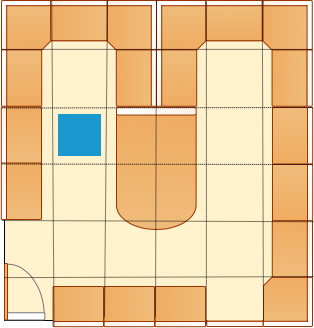
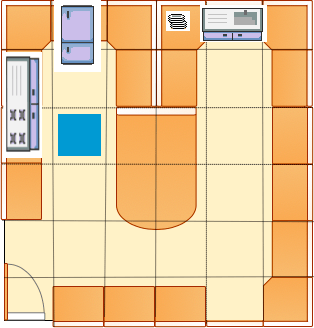
FINI
En vrai, c'est pas fini..
Mais il est 5h24, donc j'arrête là..

diff --git a/Scucina/src/scucina/JeuTuto1.java b/Scucina/src/scucina/JeuTuto1.java
@@ -21,7 +21,6 @@ public class JeuTuto1 implements JeuAbstract {
     int objectifx = 1;
     int objectify = 2;
     double rayon = 50;
-    String mode="t1";
     int map_x;
     int map_y;
     int direction;
@@ -31,7 +30,8 @@ public class JeuTuto1 implements JeuAbstract {
     int mauvaise_move;
     boolean lire=true;
     boolean ok;
-    int tps = 750;
+    int tps = 400;
+    String mode;
     
     boolean sequence = false;
     /*
@@ -57,7 +57,6 @@ public class JeuTuto1 implements JeuAbstract {
         this.personnage_y = 1;
         x = (this.personnage_x) * this.largeur_case + this.largeur_case;
         y = (this.personnage_y) * this.hauteur_case + this.hauteur_case/2;
-        
         this.mode = "t1";
         this.plateau = new Cases[6][6];
         this.portes = new Cases[1][2];
@@ -123,8 +122,7 @@ public class JeuTuto1 implements JeuAbstract {
     
     @Override
     public String evoluer(CClavier clavier, CSouris souris) {
-        this.mode="t1";
-        
+        this.mode = "t1";
         // decale le personnage en fonction des touches
         if (clavier.getTyped(KeyEvent.VK_LEFT)) {
             this.allerGauche(true, false);
@@ -200,12 +198,20 @@ public class JeuTuto1 implements JeuAbstract {
             }
             else sequence = false;
             if(ok()){
-                
-                        if ((sx > b1.pos_x) && (sy > b1.pos_y) && (sy < b1.pos_y+b1.hauteur) && (sx < b1.pos_x+b1.largeur) && (souris.getClicked())) {
-			// on change de mode de jeu
-			System.out.println("passer au second tutoriel");
-			this.mode = "t2";
-		}
+                try {
+                    Thread.sleep(tps*2);
+                } catch (InterruptedException ex) {
+                    Logger.getLogger(JeuTuto1.class.getName()).log(Level.SEVERE, null, ex);
+                }
+                this.mode = "t2";
+                if ((sx > b1.pos_x) && (sy > b1.pos_y) && (sy < b1.pos_y+b1.hauteur) && (sx < b1.pos_x+b1.largeur) && (souris.getClicked())) {
+                    // on change de mode de jeu
+                    System.out.println("passer au second tutoriel");
+                    this.mode = "t2";
+                }
+            }
+            else{
+                this.mode = "t1";
             }
         }
         // si on arrive � la fin
@@ -219,14 +225,14 @@ public class JeuTuto1 implements JeuAbstract {
         return ("fin");
         }
         */
-        
-        return this.mode;
+        System.out.println(this.mode);
+        return (this.mode);
     }
     
     public boolean ok(){
         if(this.personnage_x==this.objectifx && this.personnage_y==this.objectify){
             ok = true;
-            System.out.println("GG");
+            //System.out.println("GG");
         }
         else{
             ok=false;

diff --git a/Scucina/src/scucina/JeuTuto2.java b/Scucina/src/scucina/JeuTuto2.java
@@ -5,6 +5,7 @@
 */
 package scucina;
 
+import java.awt.Color;
 import java.awt.event.KeyEvent;
 import java.util.ArrayList;
 import java.util.logging.Level;
@@ -21,10 +22,16 @@ import moteurJeu.moteur.JeuAbstract;
 public class JeuTuto2 implements JeuAbstract{
     
     double x, y;
+    
+    int sx, sy;
+    Color c = Color.RED;
     double v = 60;
     int largeur_case = 45;
     int hauteur_case = 50;
+    int objectifx = 1;
+    int objectify = 2;
     String mode="t2";
+    Bouton b1;
     int map_x;
     int map_y;
     int direction;
@@ -33,7 +40,8 @@ public class JeuTuto2 implements JeuAbstract{
     int bon_move = 0;
     int mauvaise_move;
     boolean lire=true;
-    int tps = 750;
+    boolean ok;
+    int tps = 400;
     Cases[][] plateau ;
     Cases[][] portes;
     int personnage_x;
@@ -41,12 +49,15 @@ public class JeuTuto2 implements JeuAbstract{
     ArrayList<String> touche = new ArrayList<>();
     String t = "";
     
+    boolean prendre_sel,poser_sel,prendre_patate, poser_patate;
+    
     boolean sequence = false;
     
     public JeuTuto2() {
         this.score = 100;
         this.personnage_x = 4;
         this.personnage_y = 4;
+        this.b1 = new Bouton(380, 300, 50, 70, "Fin");
         x = (this.personnage_x) * this.largeur_case + this.largeur_case;
         y = (this.personnage_y) * this.hauteur_case + this.hauteur_case/2;
         
@@ -162,9 +173,35 @@ public class JeuTuto2 implements JeuAbstract{
                 }
             }
             else sequence = false;
+            if(ok()){
+                try {
+                    Thread.sleep(tps*2);
+                } catch (InterruptedException ex) {
+                    Logger.getLogger(JeuTuto1.class.getName()).log(Level.SEVERE, null, ex);
+                }
+                this.mode = "fin";
+                if ((sx > b1.pos_x) && (sy > b1.pos_y) && (sy < b1.pos_y+b1.hauteur) && (sx < b1.pos_x+b1.largeur) && (souris.getClicked())) {
+                    // on change de mode de jeu
+                    System.out.println("passer au second tutoriel");
+                    this.mode = "fin";
+                }
+            }
+            else{
+                this.mode = "t2";
+            }
         }
         
-        return ("t2");
+        return (this.mode);
+    }
+    public boolean ok(){
+        if(this.personnage_x==this.objectifx && this.personnage_y==this.objectify){
+            ok = true;
+            //System.out.println("GG");
+        }
+        else{
+            ok=false;
+        }
+        return ok;
     }
     
     public void allerDroite(boolean add, boolean dep){

diff --git a/Scucina/src/scucina/DessinJeu.java b/Scucina/src/scucina/DessinJeu.java
@@ -21,6 +21,7 @@ public class DessinJeu implements DessinAbstract {
 	public DessinTuto1 dt1;
 	public DessinTuto2 dt2;
         public DessinIntro intro;
+        public DessinFin fin;
 
 	/**
 	 * constructeur
@@ -31,11 +32,13 @@ public class DessinJeu implements DessinAbstract {
 		this.dt1 = new DessinTuto1(this.jeu.jt1);
 		this.dt2 = new DessinTuto2(this.jeu.jt2);
                 this.intro = new DessinIntro(this.jeu.ji);
+                this.fin = new DessinFin(this.jeu.fin);
                 
         Sprites.chargerImage("map-tuto1", "img/map_tuto1.png");
         Sprites.chargerImage("map-tuto2", "img/map_tuto2.png");
         Sprites.chargerImage("menu", "img/menu1.png");
         Sprites.chargerImage("intro", "img/intro.png");
+        Sprites.chargerImage("fin", "img/fin.png");
         Sprites.chargerImage("personnage", "img/perso.png");
         Sprites.chargerFeuille("perso", "img/trainer.png",3, 4);
         Sprites.chargerFeuille("arrow", "img/arrows.png", 12, 8);
@@ -61,6 +64,9 @@ public class DessinJeu implements DessinAbstract {
                 }
                 if (this.jeu.mode.equals("intro")){
                     this.intro.dessiner(image);
+                }
+                if(this.jeu.mode.equals("fin")){
+                    this.fin.dessiner(image);
                 }
 
 	}

diff --git a/Scucina/src/scucina/DessinTuto2.java b/Scucina/src/scucina/DessinTuto2.java
@@ -28,7 +28,7 @@ public class DessinTuto2 implements DessinAbstract {
     
     JeuTuto2 jeu;
     Cases[][] cases;
-    String nom_img = "map_tuto2";
+    String nom_img = "map-tuto2";
     String chemin_map = "/img/map_tuto2.png";
     int score, bm, mm;
     
@@ -41,7 +41,7 @@ public class DessinTuto2 implements DessinAbstract {
 //        Sprites.chargerImage("personnage", "img/perso.png");
 //        Sprites.chargerFeuille("perso", "img/trainer.png",3, 4);
 //        Sprites.chargerFeuille("arrow", "img/arrows.png", 12, 8);
-        
+
     }
     
     @Override
@@ -56,6 +56,12 @@ public class DessinTuto2 implements DessinAbstract {
         ArrayList<String> touche = this.jeu.touche;
         g.setColor(Color.BLACK);
         g.drawString("Score : " + String.valueOf(this.score), 320, 20);
+        g.drawString("Appuyez sur la touche ESPACE pour ", 320, 70);
+        g.drawString("confirmer votre séquence", 320, 80);
+        g.drawString("OBJECTIF : Rendez vous sur la case rose", 320, 150);
+        
+        g.drawString("Niveau incomplet", 320, 200);
+        g.drawString("Ajout d'action normalement", 320, 230);
         
         Sprites.dessiner(g, "map-tuto2", map_x , map_y);
         String chaine="";

diff --git a/Scucina/src/scucina/DessinFin.java b/Scucina/src/scucina/DessinFin.java
@@ -1,0 +1,51 @@
+/*
+* To change this license header, choose License Headers in Project Properties.
+* To change this template file, choose Tools | Templates
+* and open the template in the editor.
+*/
+package scucina;
+
+import java.awt.AlphaComposite;
+import java.awt.Color;
+import java.awt.Font;
+import java.awt.Graphics2D;
+import java.awt.image.BufferedImage;
+import java.util.ArrayList;
+import moteurJeu.moteur.DessinAbstract;
+import moteurJeu.sprite.Sprites;
+
+/**
+ *
+ * @author vincentboulanger
+ */
+public class DessinFin implements DessinAbstract {
+    
+    
+    JeuFin jeu;
+    Cases[][] cases;
+    String nom_img = "fin";
+    String chemin_map = "/img/fin.jpg";
+    Bouton b2;
+    
+    
+    public DessinFin(JeuFin j) {
+        this.jeu = j;
+        this.b2 = jeu.b2;
+    }
+    
+    @Override
+    public void dessiner(BufferedImage image) {
+        // on recupere le graphics
+        Graphics2D g=(Graphics2D)image.getGraphics();
+        //g.setComposite(AlphaComposite.getInstance(AlphaComposite.SRC_OVER, 0.2f));
+        Sprites.dessiner(g, "fin", 0 , 0);
+        
+        g.dispose();
+        
+        
+        
+        //jeu.print();
+    }
+    
+    
+}

diff --git a/Scucina/src/scucina/JeuFin.java b/Scucina/src/scucina/JeuFin.java
@@ -1,0 +1,57 @@
+/*
+ * To change this license header, choose License Headers in Project Properties.
+ * To change this template file, choose Tools | Templates
+ * and open the template in the editor.
+ */
+package scucina;
+
+import java.awt.Color;
+import moteurJeu.moteur.CClavier;
+import moteurJeu.moteur.CSouris;
+import moteurJeu.moteur.DessinAbstract;
+import moteurJeu.moteur.JeuAbstract;
+import moteurJeu.moteur.MoteurGraphique;
+
+
+/**
+ *
+ * @author vincentboulanger
+ */
+public class JeuFin implements JeuAbstract {
+    
+/**
+	 * affiche la souris
+	 */
+	int sx, sy;
+	Color c = Color.RED;
+        Bouton b2;
+        
+        
+
+	/**
+	 * le mode
+	 */
+	String mode="fin";
+
+    public JeuFin() {
+       
+        this.mode="fin";
+    }
+
+	@Override
+	public String evoluer(CClavier clavier, CSouris souris) {
+		this.mode="fin";
+		// evoluer stocke la souris
+		this.sx = souris.getX();
+		this.sy = souris.getY();
+		return (this.mode);
+
+	}
+
+	@Override
+	public boolean etreFini() {
+		// TODO Auto-generated method stub
+		return false;
+	}
+    
+}

diff --git a/Scucina/src/scucina/DessinTuto1.java b/Scucina/src/scucina/DessinTuto1.java
@@ -13,6 +13,8 @@ public class DessinTuto1 implements DessinAbstract {
     
     JeuTuto1 jeu;
     
+    String nom_img = "map-tuto1";
+    String chemin_map = "/img/map_tuto1.png";
     int score;
     public DessinTuto1(JeuTuto1 j) {
         this.jeu = j;
@@ -36,8 +38,10 @@ public class DessinTuto1 implements DessinAbstract {
         ArrayList<String> touche = this.jeu.touche;
         
         g.setColor(Color.BLACK);
-        g.drawString("Score : " + String.valueOf(this.score)+"\n\n Appuyez sur la touche ESPACE pour confirmer votre séquence"
-                + "\n\n OBJECTIF : \nRendez vous sur la case bleue", 320, 20);
+        g.drawString("Score : " + String.valueOf(this.score), 320, 20);
+        g.drawString("Appuyez sur la touche ESPACE pour ", 320, 70);
+        g.drawString("confirmer votre séquence", 320, 80);
+        g.drawString("OBJECTIF : Rendez vous sur la case bleue", 320, 150);
         
         Sprites.dessiner(g, "map-tuto1", map_x , map_y);
         String chaine="";

diff --git a/Scucina/src/scucina/Jeu.java b/Scucina/src/scucina/Jeu.java
@@ -38,6 +38,7 @@ public class Jeu implements JeuAbstract {
     JeuTuto1 jt1;
     JeuTuto2 jt2;
     JeuIntro ji;
+    JeuFin fin;
     
     /**
      * on creer un jeu au debut
@@ -48,6 +49,7 @@ public class Jeu implements JeuAbstract {
         this.jt1 = new JeuTuto1();
         this.jt2 = new JeuTuto2();
         this.ji = new JeuIntro();
+        this.fin = new JeuFin();
         
     }
     
@@ -69,6 +71,10 @@ public class Jeu implements JeuAbstract {
                 
             case "intro":
                 this.mode = this.ji.evoluer(controle, souris);
+                break;
+                
+            case "fin":
+                this.mode = this.fin.evoluer(controle, souris);
                 break;
         }
         return ("");
